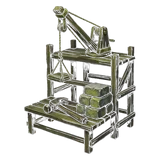
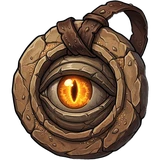
Картинки нових активностей (Higgsfield, 21.11, Влад «так»): банери 6 щоденних підземель (картка, новина дня, результат), Жнива, Печера Циклопа; значки «Щоденне», «Циклоп», Мітки дресирувальника, Жнива; картинки новин n10 (втеча Графа) і n11 (новий тиждень) — game v242, i18n v172, ui2 v96
Claude-Session: https://claude.ai/code/session_01SEci1688fz8bMJymwKVNqe

diff --git a/src/game.js b/src/game.js
@@ -845,19 +845,19 @@ function ddCostTxt(c){return [c.gold?'💰'+fmt(c.gold):'',c.matN?'⛏'+MATN[
 function ddRewTxt(k,r){return k==='gold'?'💰'+fmt(r.gold):k==='mats'?'⛏'+MATN[r.mat]+' ×'+r.matN:k==='gems'?T('dd_r_gems',{n:r.gems}):k==='leg'?T('dd_r_leg',{l:r.legIl}):k==='ash'?'⚱'+r.ash:T('dd_r_scroll',{p:Math.round(r.scroll*100)})}
 function ddCard(){const D=V.dd;if(!D||!D.live)return'';
  const ms=Math.max(0,D.end-Date.now()),hh=Math.floor(ms/36e5),mm=Math.floor(ms%36e5/6e4);
- let h=`<div class="card dd"><div class="dd-hd"><span class="dd-ic">${DD_I[D.k]}</span><div><h4>${T('dd_n_'+D.k)}</h4><p class="hint">${T('dd_l_'+D.k)}</p></div></div>
+ let h=`<div class="card dd"><div class="dd-art" style="background-image:url(assets/dd/${D.k}.jpg?v=1)"></div><div class="dd-hd"><div><h4>${DD_I[D.k]} ${T('dd_n_'+D.k)}</h4><p class="hint">${T('dd_l_'+D.k)}</p></div></div>
  <p class="sub">${T('dd_tier',{t:D.t})} · ${T('dd_used',{n:D.used,b:D.base})} · ${T('dd_next',{k:DD_I[D.next]+' '+T('dd_n_'+D.next),t:T('t_hm',{h:hh,m:mm})})}</p>`;
  for(const x of D.ds){const lock=!x.open,weak=x.open&&!x.win;
-  h+=`<div class="dd-row${lock?' lock':''}"><div><b>${T('diff_'+x.d)}</b><span>${T('dd_pay')}: ${ddCostTxt(x.c)}</span><span>${T('dd_get')}: ${ddRewTxt(D.k,x.r)} · 🏅${x.r.marks}</span>${weak?`<span class="dn">💪 ${T('need_power',{n:fmt(x.need),m:fmt(V.hero?V.hero.power:0)})}</span>`:''}</div>
+  h+=`<div class="dd-row${lock?' lock':''}"><div><b>${T('diff_'+x.d)}</b><span>${T('dd_pay')}: ${ddCostTxt(x.c)}</span><span>${T('dd_get')}: ${ddRewTxt(D.k,x.r)} · ${RIS('tmk')}${x.r.marks}</span>${weak?`<span class="dn">💪 ${T('need_power',{n:fmt(x.need),m:fmt(V.hero?V.hero.power:0)})}</span>`:''}</div>
   <button class="btn${lock||weak?'':' pri'}" data-ddg="${x.d}" ${lock||weak||busy?'disabled':''}>${lock?'🔒':T('dd_go')}</button></div>`}
- h+=`<p class="hint">${T('dd_hint',{b:D.base})}</p><p class="sub">🏅 ${T('dd_marks',{n:D.tmk})}</p></div>`;
+ h+=`<p class="hint">${T('dd_hint',{b:D.base})}</p><p class="sub">${RIS('tmk')} ${T('dd_marks',{n:D.tmk})}</p></div>`;
  return h}
 function ddResult(o){const g=o.gain;
- const rw=[g.gold?`💰 <b>+${fmt(g.gold)}</b>`:'',g.matN?`${T('r_mat',{m:MATN[g.mat]})} <b>${g.matN}</b>`:'',(g.gems||[]).length?`🔷 ${g.gems.map(gemName).join(', ')}`:'',g.item?`<span style="color:${RAR[4].c}">${itemName(g.item)} · ${T('lvl',{n:g.item.il})}</span>`:'',g.ash?`${T('r_ash')} <b>+${g.ash}</b>`:'',g.scroll?`<span style="color:${RAR[6].c}">📜 ${T('dd_scroll_got')}</span>`:'',g.marks?`🏅 ${T('dd_marks_got',{n:g.marks})}`:''].filter(Boolean).map(x=>`<p>${x}</p>`).join('');
- modal(`<div class="big">${o.full?'🏆':'💀'}</div><h3>${T('dd_n_'+o.k)}: ${T(o.full?'dng_win':'dng_lose')}</h3>${rw||`<p class="hint">${T('no_reward')}</p>`}${o.k==='scroll'&&o.full&&!g.scroll?`<p class="hint">${T('dd_scroll_no')}</p>`:''}`,T('ok'));haptic(o.full?'heavy':'medium')}
+ const rw=[g.gold?`💰 <b>+${fmt(g.gold)}</b>`:'',g.matN?`${T('r_mat',{m:MATN[g.mat]})} <b>${g.matN}</b>`:'',(g.gems||[]).length?`🔷 ${g.gems.map(gemName).join(', ')}`:'',g.item?`<span style="color:${RAR[4].c}">${itemName(g.item)} · ${T('lvl',{n:g.item.il})}</span>`:'',g.ash?`${T('r_ash')} <b>+${g.ash}</b>`:'',g.scroll?`<span style="color:${RAR[6].c}">📜 ${T('dd_scroll_got')}</span>`:'',g.marks?`${RIS('tmk')} ${T('dd_marks_got',{n:g.marks})}`:''].filter(Boolean).map(x=>`<p>${x}</p>`).join('');
+ modal(`<div class="nimg" style="background-image:url(assets/dd/${o.k}.jpg?v=1)"></div><div class="big">${o.full?'🏆':'💀'}</div><h3>${T('dd_n_'+o.k)}: ${T(o.full?'dng_win':'dng_lose')}</h3>${rw||`<p class="hint">${T('no_reward')}</p>`}${o.k==='scroll'&&o.full&&!g.scroll?`<p class="hint">${T('dd_scroll_no')}</p>`:''}`,T('ok'));haptic(o.full?'heavy':'medium')}
 // раз на день — коротка новина про сьогоднішнє підземелля (дзвінок 19.11)
 function ddNews(){const D=V&&V.dd;if(!D||!D.live||!G||G.maxStage<5)return;let k='';try{k=localStorage.getItem('gt_ddn')||''}catch(e){}const day=new Date().toISOString().slice(0,10);if(k===day)return;try{localStorage.setItem('gt_ddn',day)}catch(e){}
- modal(`<div class="big">${DD_I[D.k]}</div><h3>${T('dd_news_t')}: ${T('dd_n_'+D.k)}</h3><p>${T('dd_l_'+D.k)}</p><p class="hint">${T('dd_news_h')}</p>`,T('dd_news_go'),()=>{dsub='dd';dirty.dng=1;const b=document.querySelector('.tabs button[data-t="dng"]');if(b)b.click()},null,'ddnews')}
+ modal(`<div class="nimg" style="background-image:url(assets/dd/${D.k}.jpg?v=1)"></div><h3>${T('dd_news_t')}: ${T('dd_n_'+D.k)}</h3><p>${T('dd_l_'+D.k)}</p><p class="hint">${T('dd_news_h')}</p>`,T('dd_news_go'),()=>{dsub='dd';dirty.dng=1;const b=document.querySelector('.tabs button[data-t="dng"]');if(b)b.click()},null,'ddnews')}
 function renderDng(){
  if(dsub==='sw'&&!V.swamp||dsub==='dd'&&!(V.dd&&V.dd.live))dsub='dng';
  const h=`<div class="dwrap">${dsub==='sw'?swampCard():dsub==='dd'?ddCard():dngList()}</div>`;
@@ -1469,12 +1469,12 @@ function cycDo(a,args,cb){return act(a,args,r=>{if(r.out&&r.out.live!==undefined
 function cycRes(f,mine){if(!f||!f.res)return;
  const rows=f.res.map(x=>`<div><span>${PETE[x.pet]||'👤'} ${esc(x.name)} <small style="opacity:.6">${T('stage',{n:x.st})}</small></span><b>${x.t>=60?'✓':'💀'} ${x.t} ${T('cyc_s')} · ${fmt(Math.round(x.pts))}</b></div>`).join('');
  const m=mine?`<p>${T('cyc_mine',{n:mine.n,k:T('chest_'+mine.g),m:MATN[mine.mat],q:mine.matN})}${mine.ess?' · '+T('r_ess')+' +1':''}</p>`:'';
- modal(`<div class="big">👁</div><h3>${T('cyc_t')} · ${T('cyc_d'+f.d)}</h3><div class="rooms cyc-res">${rows}</div><p class="hint">${T('cyc_res_h')}</p>${m}`,T('ok'))}
+ modal(`<div class="nimg" style="background-image:url(assets/cyc/cave.jpg?v=1)"></div><h3>${T('cyc_t')} · ${T('cyc_d'+f.d)}</h3><div class="rooms cyc-res">${rows}</div><p class="hint">${T('cyc_res_h')}</p>${m}`,T('ok'))}
 function cycHtml(){const D=cycData;
  if(!D){if(!cycBusy){cycBusy=1;api('cycInfo').then(r=>{cycData=r.out;dirty.clan=1;flush()}).catch(e=>toast(errT(e))).finally(()=>{cycBusy=0})}return `<div class="empty">${T('loading')}</div>`}
  if(!D.live)return `<div class="card"><h4>👁 ${T('cyc_t')}</h4><p class="hint">${T('cyc_soon')}</p></div>`;
  if(!D.clan||!D.atk)return `<div class="card"><h4>👁 ${T('cyc_t')}</h4><p class="hint">${T('cyc_noclan')}</p></div>`; // вийшов з клану при відкритій вкладці (критик 21.11)
- let h=`<div class="card cyc"><h4>👁 ${T('cyc_t')}</h4><p class="hint">${T('cyc_lore')}</p><p class="sub">${T('cyc_me',{l:D.lead,lm:D.leadMax,n:D.dn,nm:D.dayMax,p:fmt(Math.round(D.pts))})}</p>`;
+ let h=`<div class="card cyc"><div class="dd-art" style="background-image:url(assets/cyc/cave.jpg?v=1)"></div><h4>👁 ${T('cyc_t')}</h4><p class="hint">${T('cyc_lore')}</p><p class="sub">${T('cyc_me',{l:D.lead,lm:D.leadMax,n:D.dn,nm:D.dayMax,p:fmt(Math.round(D.pts))})}</p>`;
  if(D.young)h+=`<p class="dn">${T('cyc_young')}</p>`;
  const inP=(D.open||[]).some(p=>p.me),can=!D.young&&!inP&&D.lead<D.leadMax&&D.dn<D.dayMax;
  h+=`<div class="cyc-d">${[1,2,3].map(d=>`<button class="btn${d===2?' pri':''}" data-cyo="${d}" ${can&&!busy?'':'disabled'}><b>${T('cyc_d'+d)}</b><small>${T('cyc_dh',{a:D.atk[d-1],p:D.ptsMul[d-1]})}</small><small>🧰${D.ch[d-1][0]} ${T('chest_'+D.ch[d-1][1])} · ⛏${D.mat[d-1]} · ${T('r_ess')} ${Math.round(D.ess[d-1]*100)}%</small></button>`).join('')}</div>
@@ -1663,7 +1663,7 @@ const ZH_K=['dng','ddng','cyc','dq','arena','sw','chest','find','ad','clan'],ZH_
 function zhRew(r){return ['⚱'+r.ash,r.ch?'🧰'+r.ch[1]+' '+T(r.ch[0]>=3?'zh_ch_e':'zh_ch_r'):'',r.egg?'🥚 '+T('egg_'+r.egg):''].filter(Boolean).join(' · ')}
 function zhCard(d){const Z=V&&V.zh;if(!Z||!Z.live)return'';
  const nx=Z.th.find(v=>Z.pts<v),can=Z.th.some((v,i)=>Z.pts>=v&&!(Z.got&(1<<i)));
- let h=`<div class="card zh"><h4>🌾 ${T('zh_t')}</h4><p class="hint">${T('zh_hint')}</p>
+ let h=`<div class="card zh"><div class="dd-art" style="background-image:url(assets/news/n11.jpg?v=1)"></div><h4>${RIS('zh')} ${T('zh_t')}</h4><p class="hint">${T('zh_hint')}</p>
  <div class="zh-pts"><b>${fmt(Math.floor(Z.pts))}</b><span>${T('zh_week_pts')}</span></div>
  <p class="sub">${T('zh_today',{d:Z.day,c:Z.cap})}${Z.x2?' · '+T('zh_x2',{a:ZH_I[Z.x2]+' '+T('zh_k_'+Z.x2)}):''}</p>
  <div class="zh-th">${Z.th.map((v,i)=>{const got=Z.got&(1<<i),ok=Z.pts>=v;return `<div class="${got?'got':ok?'ok':''}"><b>${got?'✅':ok?'🎁':'🔒'} ${v}</b><span>${zhRew(Z.thR[i])}</span></div>`}).join('')}</div>

diff --git a/index.html b/index.html
@@ -205,7 +205,7 @@ body[data-scene=clan] .scene{background-image:radial-gradient(ellipse at center,
 .petinc{display:flex;align-items:center;gap:10px;margin:6px 0 10px}.petinc>div{flex:1}.egg{font-size:22px}.egg.r{filter:hue-rotate(200deg) saturate(2) drop-shadow(0 0 4px #7aa8ff)}
 .petgrid{display:grid;grid-template-columns:repeat(3,1fr);gap:6px}.petc{display:flex;flex-direction:column;align-items:center;gap:2px;padding:8px 4px;border-radius:10px;background:var(--panel2);border:1px solid var(--line);color:var(--text);font-size:12px;text-align:center}.petc.act{border-color:var(--acc);background:#2c1d1f}.petc.no{opacity:.45}.petc small{color:var(--mut);font-size:10px}
 </style>
-<link rel="stylesheet" href="src/ui2.css?v=95">
+<link rel="stylesheet" href="src/ui2.css?v=96">
 </head>
 <body>
 <!-- заставка -->
@@ -554,9 +554,9 @@ body[data-scene=clan] .scene{background-image:radial-gradient(ellipse at center,
 <div class="modal" id="modal"><div class="mbox" id="mbox"></div></div>
 <div class="toast" id="toast"></div>
 
-<script src="src/i18n.js?v=171"></script>
+<script src="src/i18n.js?v=172"></script>
 <script src="src/gear.js?v=5"></script>
 <script src="src/pen.js?v=2"></script>
-<script src="src/game.js?v=241"></script>
+<script src="src/game.js?v=242"></script>
 </body>
 </html>

diff --git a/src/ui2.css b/src/ui2.css
@@ -922,3 +922,7 @@ h4 .hic.ico{width:24px;height:24px;vertical-align:-6px}
 .apick small{font-size:11px;color:var(--muted,#9a9aa2)}
 .apick i{position:absolute;top:-4px;right:-4px;background:var(--green,#3bb273);color:#fff;border-radius:50%;width:18px;height:18px;font-size:12px;line-height:18px;text-align:center;font-style:normal}
 .sbx-flee{margin-top:4px;color:#ff8a65;font-weight:700;font-size:13px;text-shadow:0 1px 3px #000}
+/* картинки нових активностей (21.11, Higgsfield) */
+.dd-art{height:96px;margin:-9px -10px 10px;border-radius:14px 14px 0 0;background-size:cover;background-position:center;box-shadow:inset 0 -30px 30px -10px rgba(0,0,0,.65)}
+.nimg{height:120px;margin:-6px -6px 10px;border-radius:12px;background-size:cover;background-position:center}
+.dd-hd h4 .hic,.card.zh h4 .hic{width:22px;height:22px;vertical-align:-5px}
